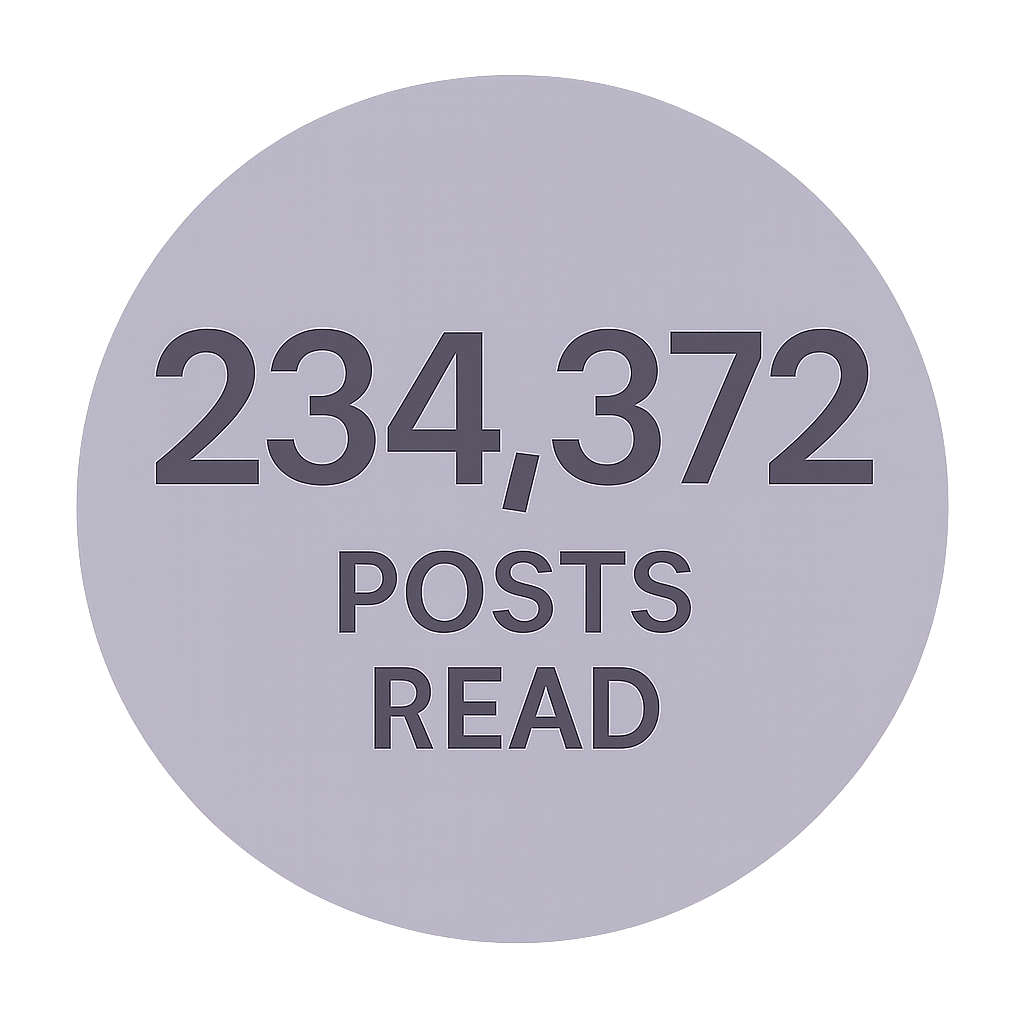
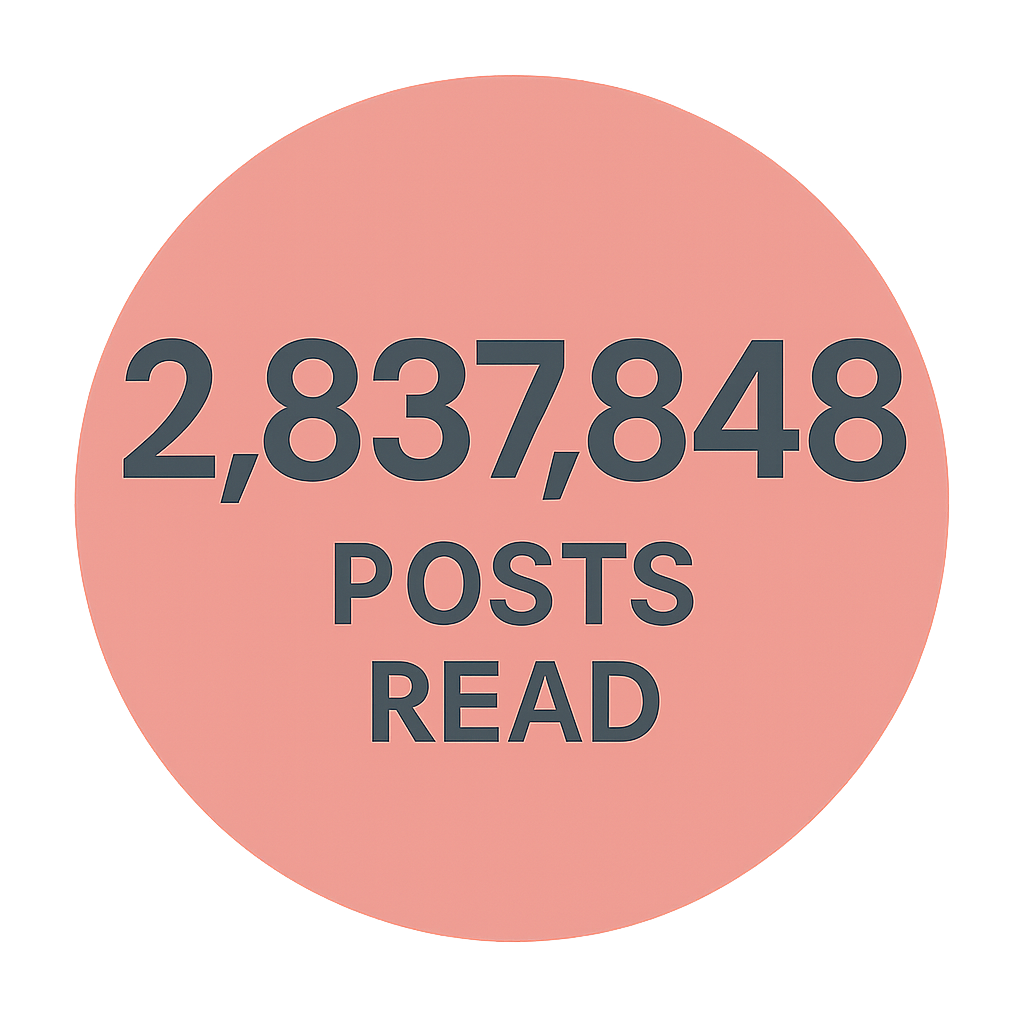
added graphics for posts read

diff --git a/app.py b/app.py
@@ -225,10 +225,6 @@ else:
     registrations.index = registrations.index.strftime('%Y-%m')
     xlabel = "Month"
 
-# Print registration counts for debugging
-st.write("Registration counts by period:")
-st.write(registrations)
-
 # Create line chart
 fig, ax = plt.subplots(figsize=(10, 6))
 registrations.plot(kind='line', ax=ax, marker='o')
@@ -238,6 +234,10 @@ plt.ylabel('Number of Registrations')
 plt.grid(True)
 plt.xticks(rotation=45)
 st.pyplot(fig)
+
+# Print registration counts for debugging
+st.write("Registration counts by period:")
+st.write(registrations)
 
 # Show summary metrics for the selected period
 col1, col2, col3 = st.columns(3)
@@ -251,7 +251,7 @@ st.header("Additional Analytics")
 # Add the posts read image at 60% width
 col1, col2, col3 = st.columns([1, 3, 1])
 with col2:
-    st.image("images/posts_read.png", use_container_width=True)
+    st.image("images/read_logged_in.png", use_container_width=True)
 
 # Create tabs for different visualizations
 tab1, tab2, tab3 = st.tabs(["Developer Engagement", "Geographic Distribution", "Registration Patterns"])
@@ -416,6 +416,11 @@ filtered_display = filtered_display[new_column_order]
 
 # Display filtered data
 st.dataframe(filtered_display)
+
+# Add the posts read image before Sales Kit Sample
+col1, col2, col3 = st.columns([1, 3, 1])
+with col2:
+    st.image("images/posts_read.png", use_container_width=True)
 
 # View Reports section moved to bottom
 st.header("Sales Kit Sample")
